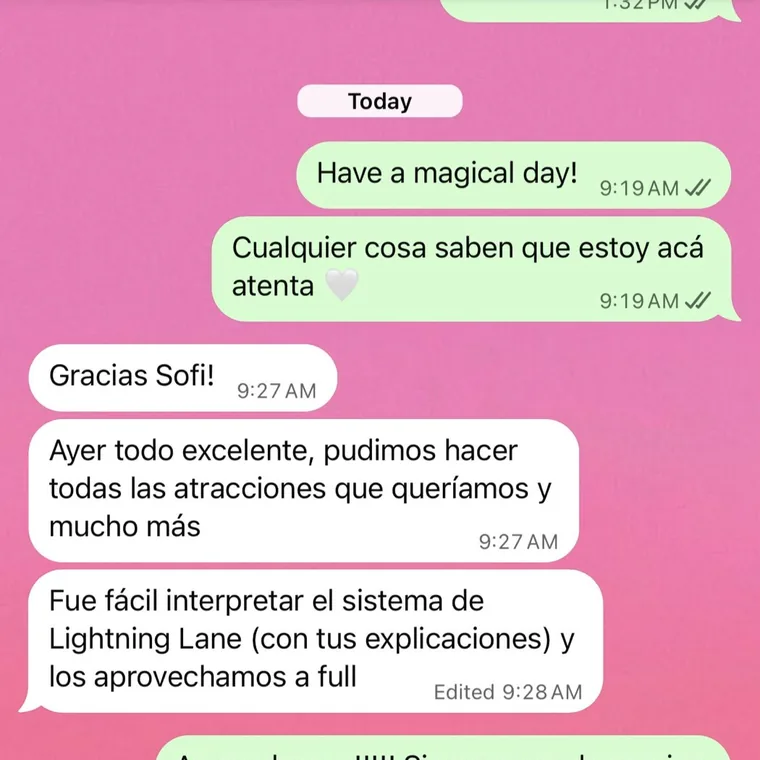
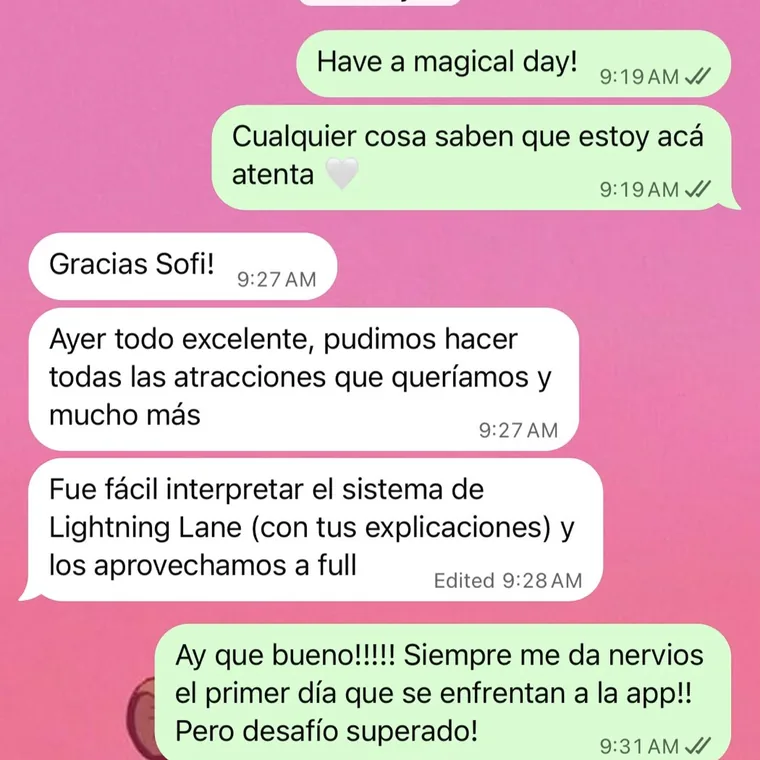
Las resenas, dos arriba y dos abajo
Fer: "muy chiquito quedo no se lee que sean 4 cuadrados 2 arriba 2 abajo".

Cuatro en fila dejaban cada captura a 242 px, un tercio de su tamanio: el
texto de WhatsApp quedaba ilegible. En dos columnas cada tarjeta mide 474 px
y los mensajes se leen sin tocar nada.

De paso, el recorte de Gaston pasa del 50% al 78%: al 50% cortaba el ultimo
mensaje por la mitad, y cuanto mas grande es la tarjeta mas se nota. Al 78%
entran los cinco mensajes enteros, de "Have a magical day!" a "Pero desafio
superado!".

En el celular no cambia nada: sigue siendo la fila que se desliza.

diff --git a/presupuestos.css b/presupuestos.css
@@ -212,18 +212,18 @@
        elige mirando cada una, y la apaisada va entera sobre blanco. El
        navegador no recorta nada, por eso no corta frases por la mitad.
        Leerlas de verdad es tocarlas: resenas.js abre la captura original. */
-    .rs-grid { max-width: 1060px; margin: 0 auto; padding: 0 1.2rem;
-               display: grid; grid-template-columns: repeat(4, 1fr); gap: 1rem;
+    .rs-grid { max-width: 980px; margin: 0 auto; padding: 0 1.2rem;
+               display: grid; grid-template-columns: repeat(2, 1fr); gap: 1.4rem;
                align-items: start; }
     .rs-grid figure { background: #fff; border: 1px solid var(--warm);
                       border-radius: 1.1rem; overflow: hidden;
                       box-shadow: 0 4px 16px var(--sombra); }
     .rs-grid > figure > img { width: 100%; aspect-ratio: 1 / 1; height: auto;
                               display: block; background: #fff; }
-    .rs-grid figcaption { padding: .6rem .7rem; font-size: .74rem; color: var(--text-soft);
+    .rs-grid figcaption { padding: .7rem .9rem; font-size: .82rem; color: var(--text-soft);
                           font-style: italic; font-family: 'Playfair Display', serif;
                           text-align: center; line-height: 1.35; }
-    .rs-pie { max-width: 1060px; margin: 1.2rem auto 0; padding: 0 1.2rem;
+    .rs-pie { max-width: 980px; margin: 1.2rem auto 0; padding: 0 1.2rem;
               text-align: center; font-size: .78rem; color: var(--text-soft);
               font-style: italic; }
     .rs-pie-celu { display: none; }
@@ -256,7 +256,8 @@
                  border: none; border-radius: 50%; background: rgba(255,255,255,.14);
                  color: #fff; font-size: 1.6rem; line-height: 1; cursor: pointer; }
 
-    @media (max-width: 920px) { .rs-grid { grid-template-columns: repeat(2, 1fr); } }
+    .rs-mas summary { font-size: .82rem; }
+    .rs-fotos { grid-template-columns: repeat(3, 1fr); }
 
     /* En el celular apiladas median casi dos pantallas. Van en una fila que se
        desliza, como las historias: se ven las cuatro igual y entra en una. La

diff --git a/_tools/tarjetas_resenas.py b/_tools/tarjetas_resenas.py
@@ -2,7 +2,7 @@
 """Las capturas en cuadrado, recortadas con criterio.
 
 Dejarselo al CSS cortaba frases por la mitad. Aca se elige la franja mirando
-cada una: Tupi arriba (se ve el usuario y el texto de la historia), Gaston al
+cada una: Tupi arriba (se ve el usuario y el texto de la historia), Gaston abajo
 medio y Agustina al final, que es donde cada mensaje entra entero. La de Jaz
 es apaisada y no se recorta: va centrada sobre blanco, el mismo blanco de la
 tarjeta, asi no se pierde una sola palabra.
@@ -17,7 +17,7 @@ from PIL import Image
 sys.stdout.reconfigure(encoding="utf-8")
 R = pathlib.Path(r"C:\proyectos\disnerd-web\resenas")
 
-ELEGIDAS = {"tupi": 0.00, "gaston": 0.50, "agustina": 1.00, "jaz": None}
+ELEGIDAS = {"tupi": 0.00, "gaston": 0.78, "agustina": 1.00, "jaz": None}
 LADO = 760
 
 for nombre, pos in ELEGIDAS.items():
